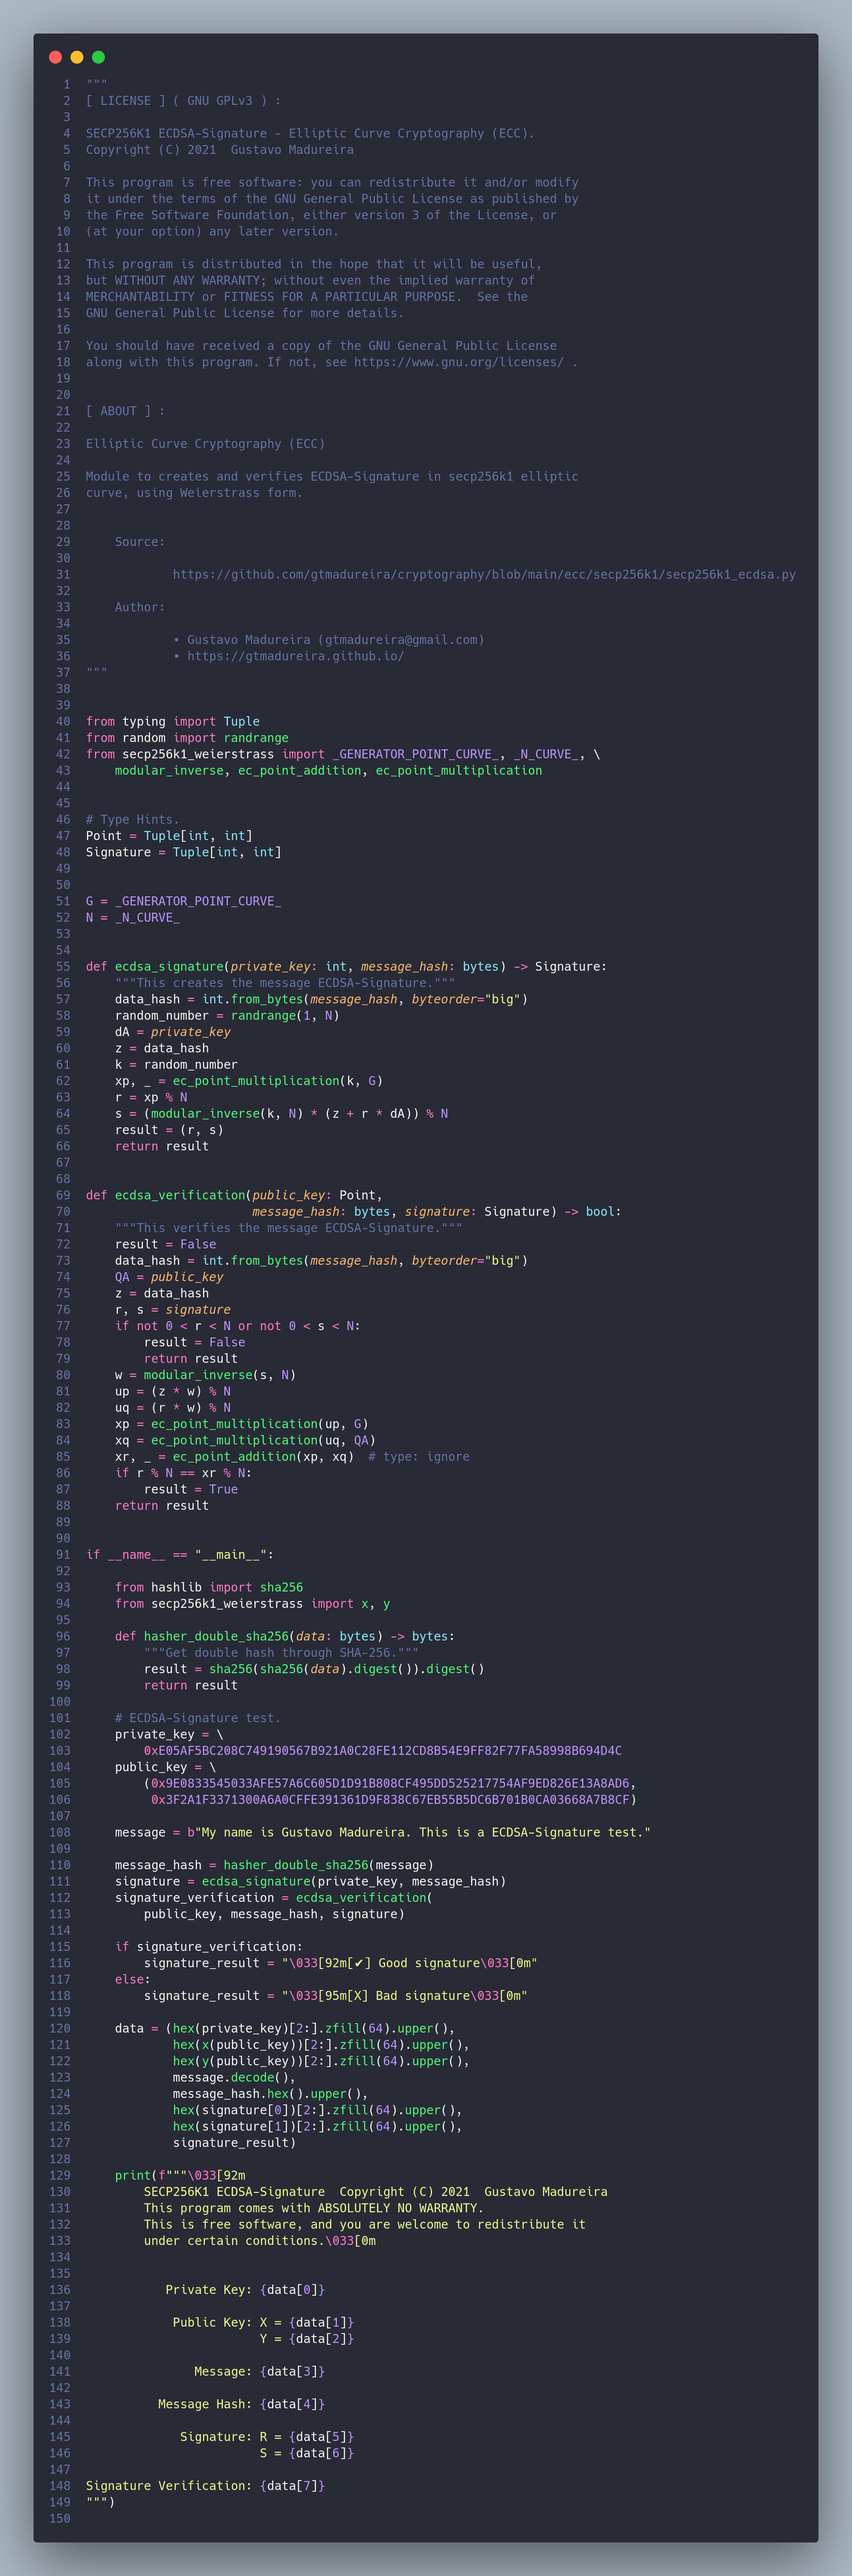
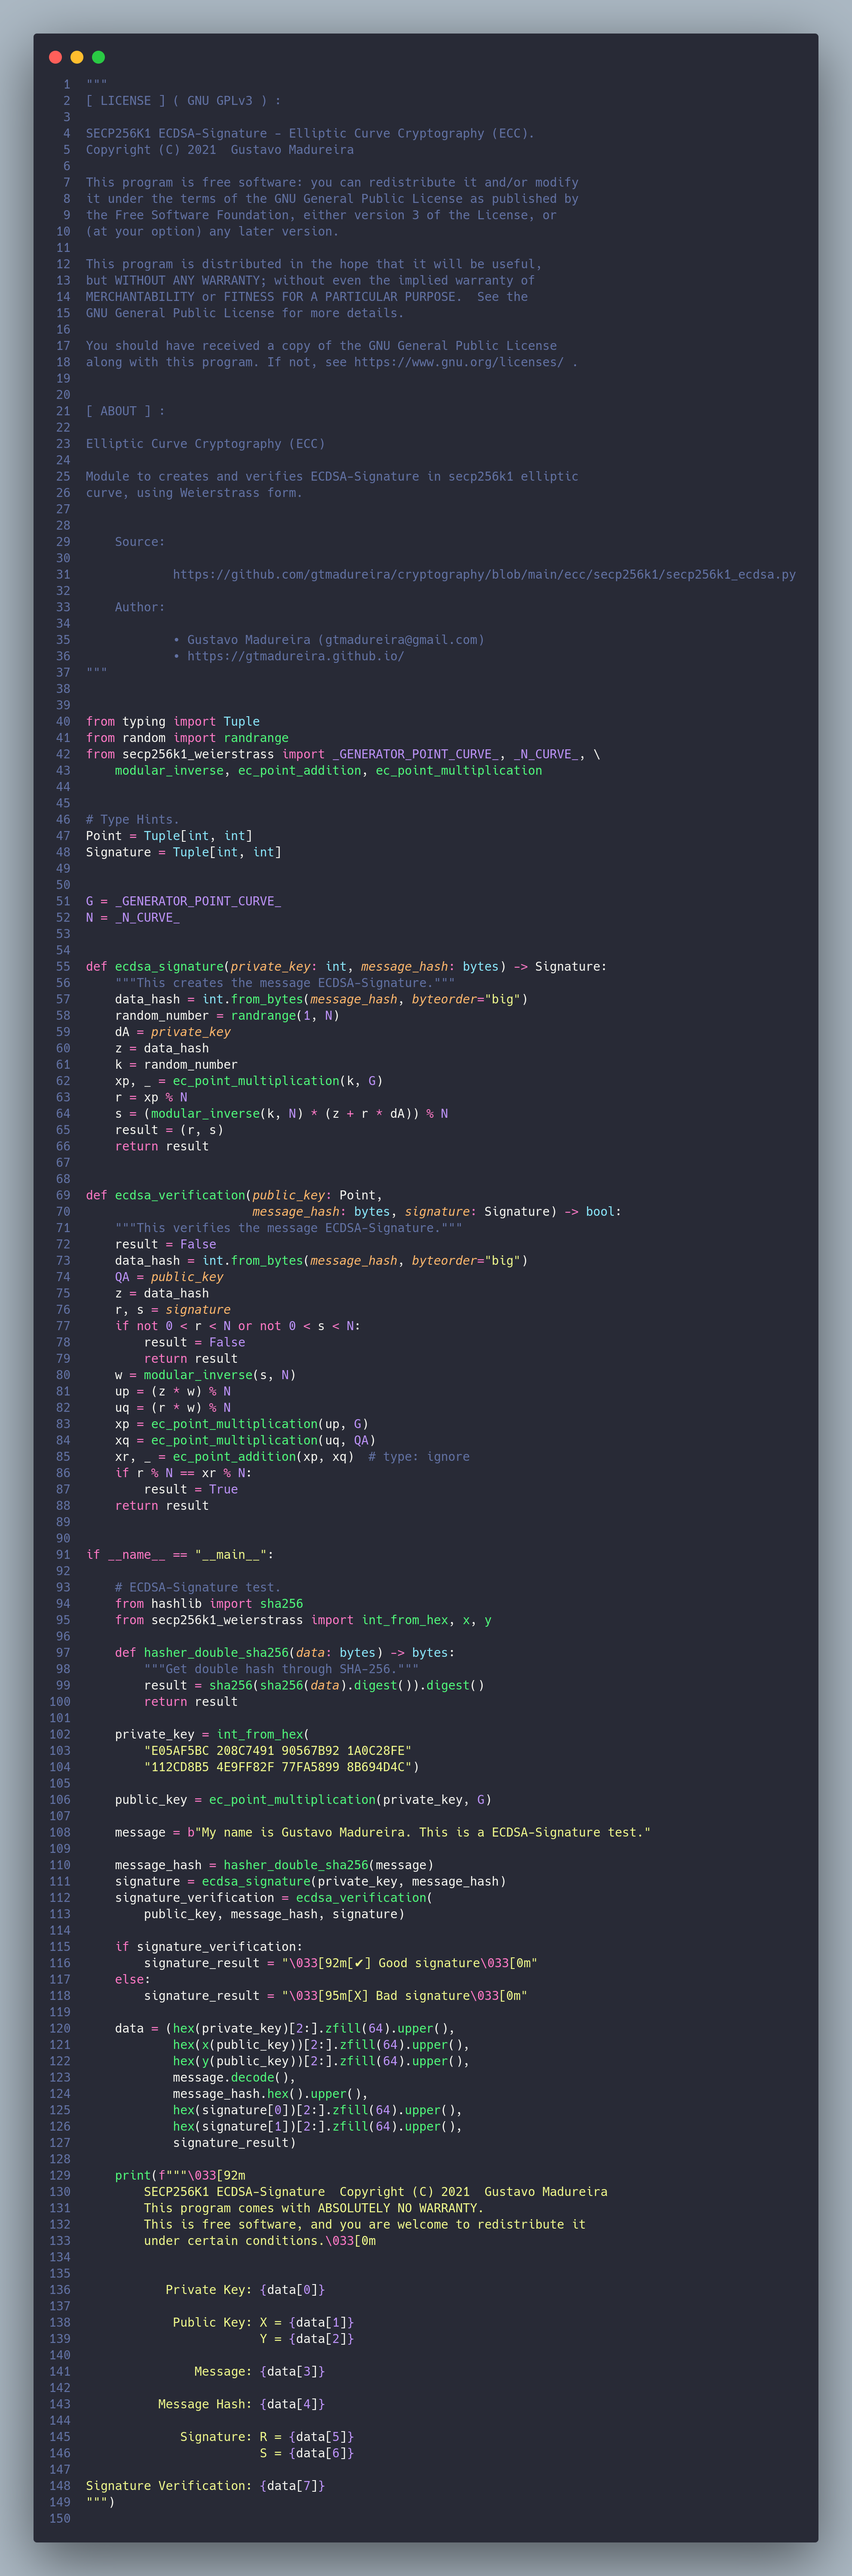
Elliptic Curve Cryptography (ECC), with curve secp256k1.

Changed region(s): [[0.1539, 0.593, 0.554, 0.7178], [0.7079, 0.6866, 0.7386, 0.7178], [0.6463, 0.6866, 0.6771, 0.7178]]

diff --git a/ecc/secp256k1/secp256k1_weierstrass.py b/ecc/secp256k1/secp256k1_weierstrass.py
@@ -45,26 +45,49 @@ from typing import Optional, Tuple
 Point = Tuple[int, int]
 
 
+def int_from_hex(hexadecimal_string: str) -> int:
+    """Converts the hexadecimal string to integer."""
+    result = int(
+        "0x" + "".join(hexadecimal_string.replace(":", "").split()), 16)
+    return result
+
+
 """
         Mathematical domain parameters of the elliptic curve secp256k1.
         Source: https://www.secg.org/sec2-v2.pdf
 """
 
+
 # Finite field (Fp):
-_FP_CURVE_ = 0xFFFFFFFFFFFFFFFFFFFFFFFFFFFFFFFFFFFFFFFFFFFFFFFFFFFFFFFEFFFFFC2F
+_FP_CURVE_ = int_from_hex(
+    "FFFFFFFF FFFFFFFF FFFFFFFF FFFFFFFF FFFFFFFF FFFFFFFF FFFFFFFE FFFFFC2F")
+
 
 # The elliptic curve (y^2 = x^3 + ax + b) over Fp is defined by:
-_A_CURVE_ = 0x0000000000000000000000000000000000000000000000000000000000000000
-_B_CURVE_ = 0x0000000000000000000000000000000000000000000000000000000000000007
+_A_CURVE_ = int_from_hex(
+    "00000000 00000000 00000000 00000000 00000000 00000000 00000000 00000000")
 
-# The generator point in uncompressed form is:
-_GX_CURVE_ = 0x79BE667EF9DCBBAC55A06295CE870B07029BFCDB2DCE28D959F2815B16F81798
-_GY_CURVE_ = 0x483ADA7726A3C4655DA4FBFC0E1108A8FD17B448A68554199C47D08FFB10D4B8
+_B_CURVE_ = int_from_hex(
+    "00000000 00000000 00000000 00000000 00000000 00000000 00000000 00000007")
+
+
+# The generator point in Compressed form is:
+_GX_CURVE_ = int_from_hex(
+    "79BE667E F9DCBBAC 55A06295 CE870B07 029BFCDB 2DCE28D9 59F2815B 16F81798")
+
+_GY_CURVE_ = int_from_hex(
+    "483ADA77 26A3C465 5DA4FBFC 0E1108A8 FD17B448 A6855419 9C47D08F FB10D4B8")
+
 _GENERATOR_POINT_CURVE_: Point = (_GX_CURVE_, _GY_CURVE_)
 
+
 # Order of generator point and the cofactor are:
-_N_CURVE_ = 0xFFFFFFFFFFFFFFFFFFFFFFFFFFFFFFFEBAAEDCE6AF48A03BBFD25E8CD0364141
-_H_CURVE_ = 0x0000000000000000000000000000000000000000000000000000000000000001
+_N_CURVE_ = int_from_hex(
+    "FFFFFFFF FFFFFFFF FFFFFFFF FFFFFFFE BAAEDCE6 AF48A03B BFD25E8C D0364141")
+
+_H_CURVE_ = int_from_hex(
+    "00000000 00000000 00000000 00000000 00000000 00000000 00000000 00000001")
+
 
 # Definition for a point that points to infinity in elliptic curve:
 _POINT_INFINITY_CURVE_ = None
@@ -247,6 +270,7 @@ def ec_point_multiplication(scalar: int, point: Optional[Point]) -> Point:
 
 if __name__ == "__main__":
 
+    # Elliptic curve point multiplication test.
     from platform import system
     from time import sleep, perf_counter
     from subprocess import check_call as run_command
@@ -266,7 +290,6 @@ if __name__ == "__main__":
             """Screen clear command for macOS/Linux operating system."""
             run_command("clear")
 
-    # Elliptic curve point multiplication test.
     private_key = 1
     while private_key < 20001:
         public_key = ec_point_multiplication(

diff --git a/ecc/secp256k1/secp256k1_jacobian.py b/ecc/secp256k1/secp256k1_jacobian.py
@@ -46,26 +46,49 @@ Point = Tuple[int, int]
 Jacobian_Coordinate = Tuple[int, int, int]
 
 
+def int_from_hex(hexadecimal_string: str) -> int:
+    """Converts the hexadecimal string to integer."""
+    result = int(
+        "0x" + "".join(hexadecimal_string.replace(":", "").split()), 16)
+    return result
+
+
 """
         Mathematical domain parameters of the elliptic curve secp256k1.
         Source: https://www.secg.org/sec2-v2.pdf
 """
 
+
 # Finite field (Fp):
-_FP_CURVE_ = 0xFFFFFFFFFFFFFFFFFFFFFFFFFFFFFFFFFFFFFFFFFFFFFFFFFFFFFFFEFFFFFC2F
+_FP_CURVE_ = int_from_hex(
+    "FFFFFFFF FFFFFFFF FFFFFFFF FFFFFFFF FFFFFFFF FFFFFFFF FFFFFFFE FFFFFC2F")
+
 
 # The elliptic curve (y^2 = x^3 + ax + b) over Fp is defined by:
-_A_CURVE_ = 0x0000000000000000000000000000000000000000000000000000000000000000
-_B_CURVE_ = 0x0000000000000000000000000000000000000000000000000000000000000007
+_A_CURVE_ = int_from_hex(
+    "00000000 00000000 00000000 00000000 00000000 00000000 00000000 00000000")
 
-# The generator point in uncompressed form is:
-_GX_CURVE_ = 0x79BE667EF9DCBBAC55A06295CE870B07029BFCDB2DCE28D959F2815B16F81798
-_GY_CURVE_ = 0x483ADA7726A3C4655DA4FBFC0E1108A8FD17B448A68554199C47D08FFB10D4B8
+_B_CURVE_ = int_from_hex(
+    "00000000 00000000 00000000 00000000 00000000 00000000 00000000 00000007")
+
+
+# The generator point in Compressed form is:
+_GX_CURVE_ = int_from_hex(
+    "79BE667E F9DCBBAC 55A06295 CE870B07 029BFCDB 2DCE28D9 59F2815B 16F81798")
+
+_GY_CURVE_ = int_from_hex(
+    "483ADA77 26A3C465 5DA4FBFC 0E1108A8 FD17B448 A6855419 9C47D08F FB10D4B8")
+
 _GENERATOR_POINT_CURVE_: Point = (_GX_CURVE_, _GY_CURVE_)
 
+
 # Order of generator point and the cofactor are:
-_N_CURVE_ = 0xFFFFFFFFFFFFFFFFFFFFFFFFFFFFFFFEBAAEDCE6AF48A03BBFD25E8CD0364141
-_H_CURVE_ = 0x0000000000000000000000000000000000000000000000000000000000000001
+_N_CURVE_ = int_from_hex(
+    "FFFFFFFF FFFFFFFF FFFFFFFF FFFFFFFE BAAEDCE6 AF48A03B BFD25E8C D0364141")
+
+_H_CURVE_ = int_from_hex(
+    "00000000 00000000 00000000 00000000 00000000 00000000 00000000 00000001")
+
 
 # Definition for a point that points to infinity in elliptic curve:
 _POINT_INFINITY_CURVE_ = None
@@ -340,6 +363,7 @@ def jacobian_point_multiplication(scalar: int,
 
 if __name__ == "__main__":
 
+    # Elliptic curve point multiplication test.
     from platform import system
     from time import sleep, perf_counter
     from subprocess import check_call as run_command
@@ -359,7 +383,6 @@ if __name__ == "__main__":
             """Screen clear command for macOS/Linux operating system."""
             run_command("clear")
 
-    # Elliptic curve point multiplication test.
     private_key = 1
     while private_key < 20001:
         public_key = jacobian_point_multiplication(

diff --git a/ecc/secp256k1/secp256k1_test_generator.py b/ecc/secp256k1/secp256k1_test_generator.py
@@ -1,27 +1,29 @@
 from secp256k1_weierstrass import _GENERATOR_POINT_CURVE_, \
-    ec_point_multiplication
+    int_from_hex, has_even_y, ec_point_multiplication
 from secp256k1_jacobian import jacobian_point_multiplication
 
 
-private_key = \
[1 lines of base64/hex data omitted]
+G = _GENERATOR_POINT_CURVE_
 
 
-public_key_w = ec_point_multiplication(
-    int("0x" + private_key, 16), _GENERATOR_POINT_CURVE_)
-if public_key_w[1] % 2 == 1:
-    prefix_w = "03"
-else:
+private_key = int_from_hex(
+    "E05AF5BC 208C7491 90567B92 1A0C28FE"
+    "112CD8B5 4E9FF82F 77FA5899 8B694D4C")
+
+
+public_key_w = ec_point_multiplication(private_key, G)
+if has_even_y(public_key_w):
     prefix_w = "02"
-
-public_key_j = jacobian_point_multiplication(
-    int("0x" + private_key, 16), _GENERATOR_POINT_CURVE_)
-if public_key_j[1] % 2 == 1:
-    prefix_j = "03"
 else:
-    prefix_j = "02"
+    prefix_w = "03"
 
-data = (private_key,
+public_key_j = jacobian_point_multiplication(private_key, G)
+if has_even_y(public_key_j):
+    prefix_j = "02"
+else:
+    prefix_j = "03"
+
+data = (hex(private_key)[2:].zfill(64).upper(),
         hex(public_key_w[0])[2:].zfill(64).upper(),
         hex(public_key_w[1])[2:].zfill(64).upper(),
         prefix_w,

diff --git a/ecc/secp256k1/secp256k1_ecdsa.py b/ecc/secp256k1/secp256k1_ecdsa.py
@@ -90,20 +90,20 @@ def ecdsa_verification(public_key: Point,
 
 if __name__ == "__main__":
 
+    # ECDSA-Signature test.
     from hashlib import sha256
-    from secp256k1_weierstrass import x, y
+    from secp256k1_weierstrass import int_from_hex, x, y
 
     def hasher_double_sha256(data: bytes) -> bytes:
         """Get double hash through SHA-256."""
         result = sha256(sha256(data).digest()).digest()
         return result
 
-    # ECDSA-Signature test.
-    private_key = \
[1 lines of base64/hex data omitted]
-    public_key = \
-        (0x9E0833545033AFE57A6C605D1D91B808CF495DD525217754AF9ED826E13A8AD6,
[1 lines of base64/hex data omitted]
+    private_key = int_from_hex(
+        "E05AF5BC 208C7491 90567B92 1A0C28FE"
+        "112CD8B5 4E9FF82F 77FA5899 8B694D4C")
+
+    public_key = ec_point_multiplication(private_key, G)
 
     message = b"My name is Gustavo Madureira. This is a ECDSA-Signature test."
 
